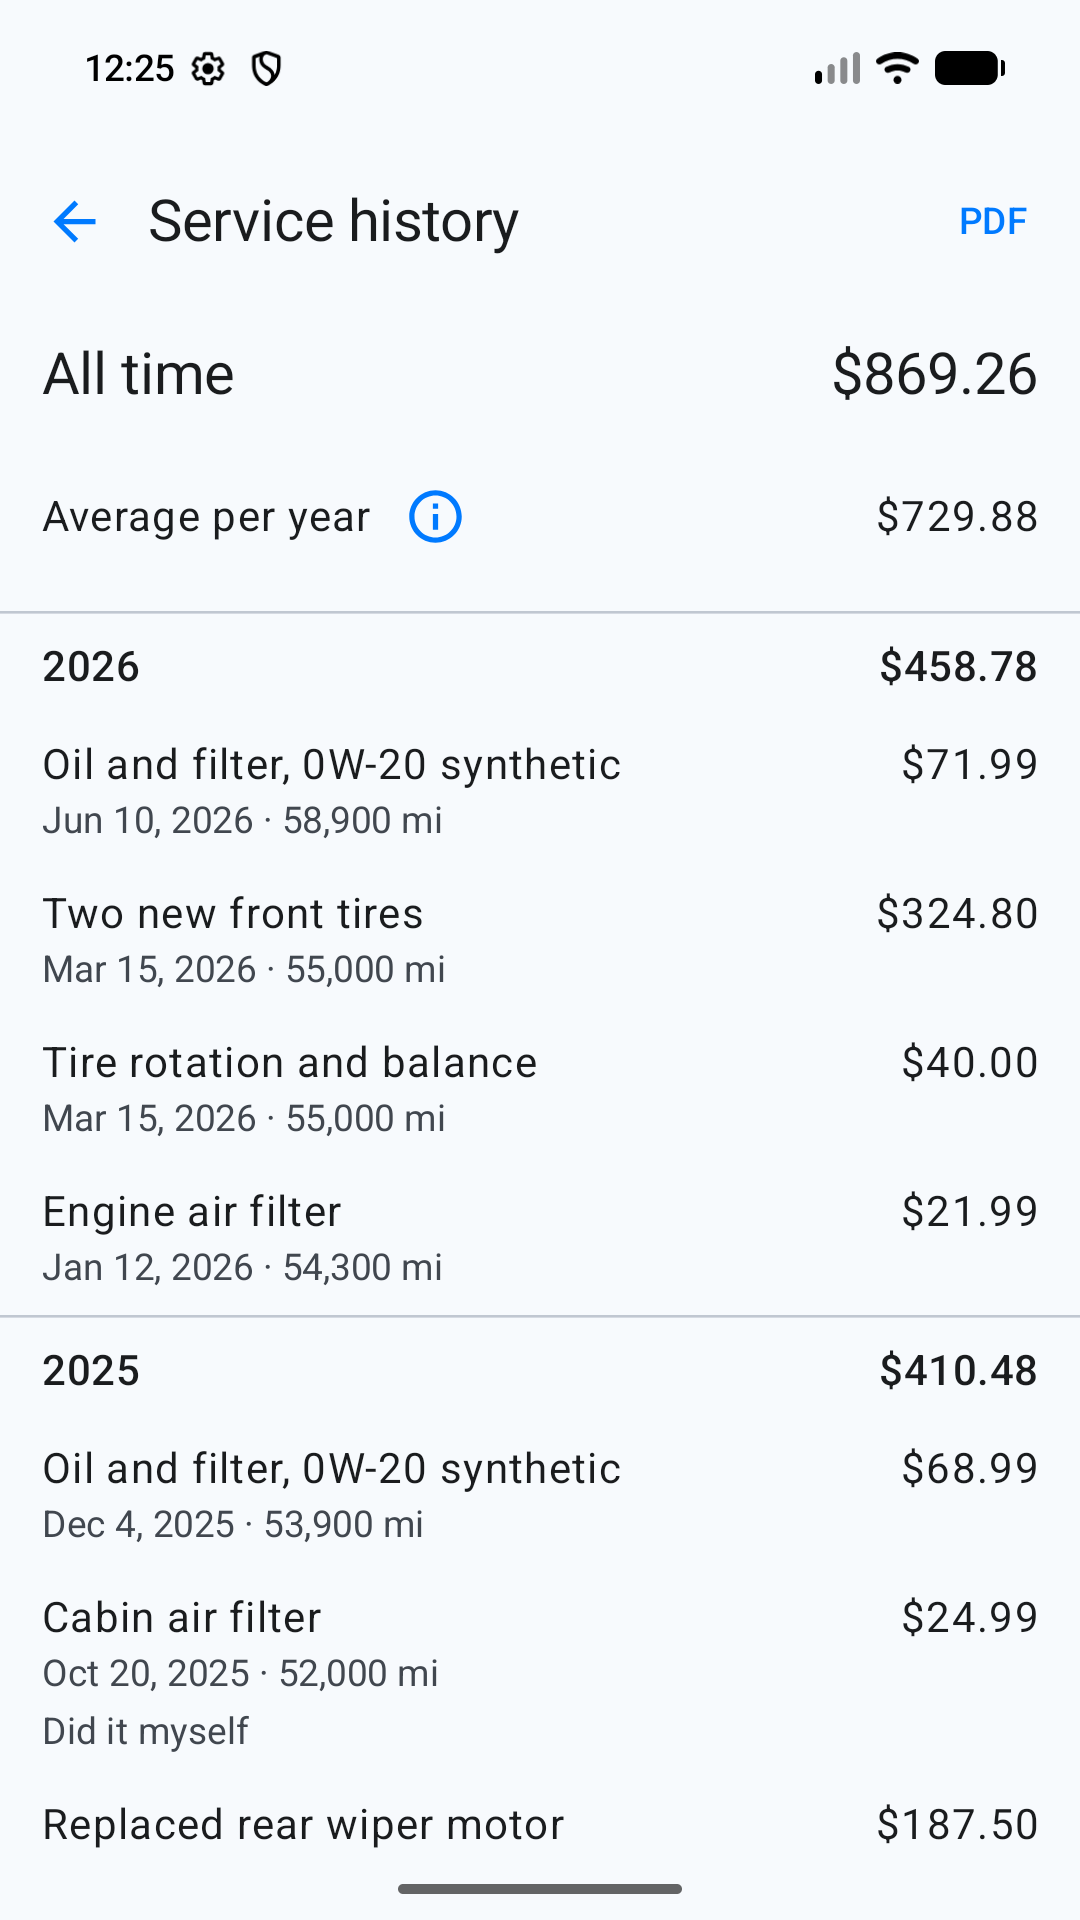
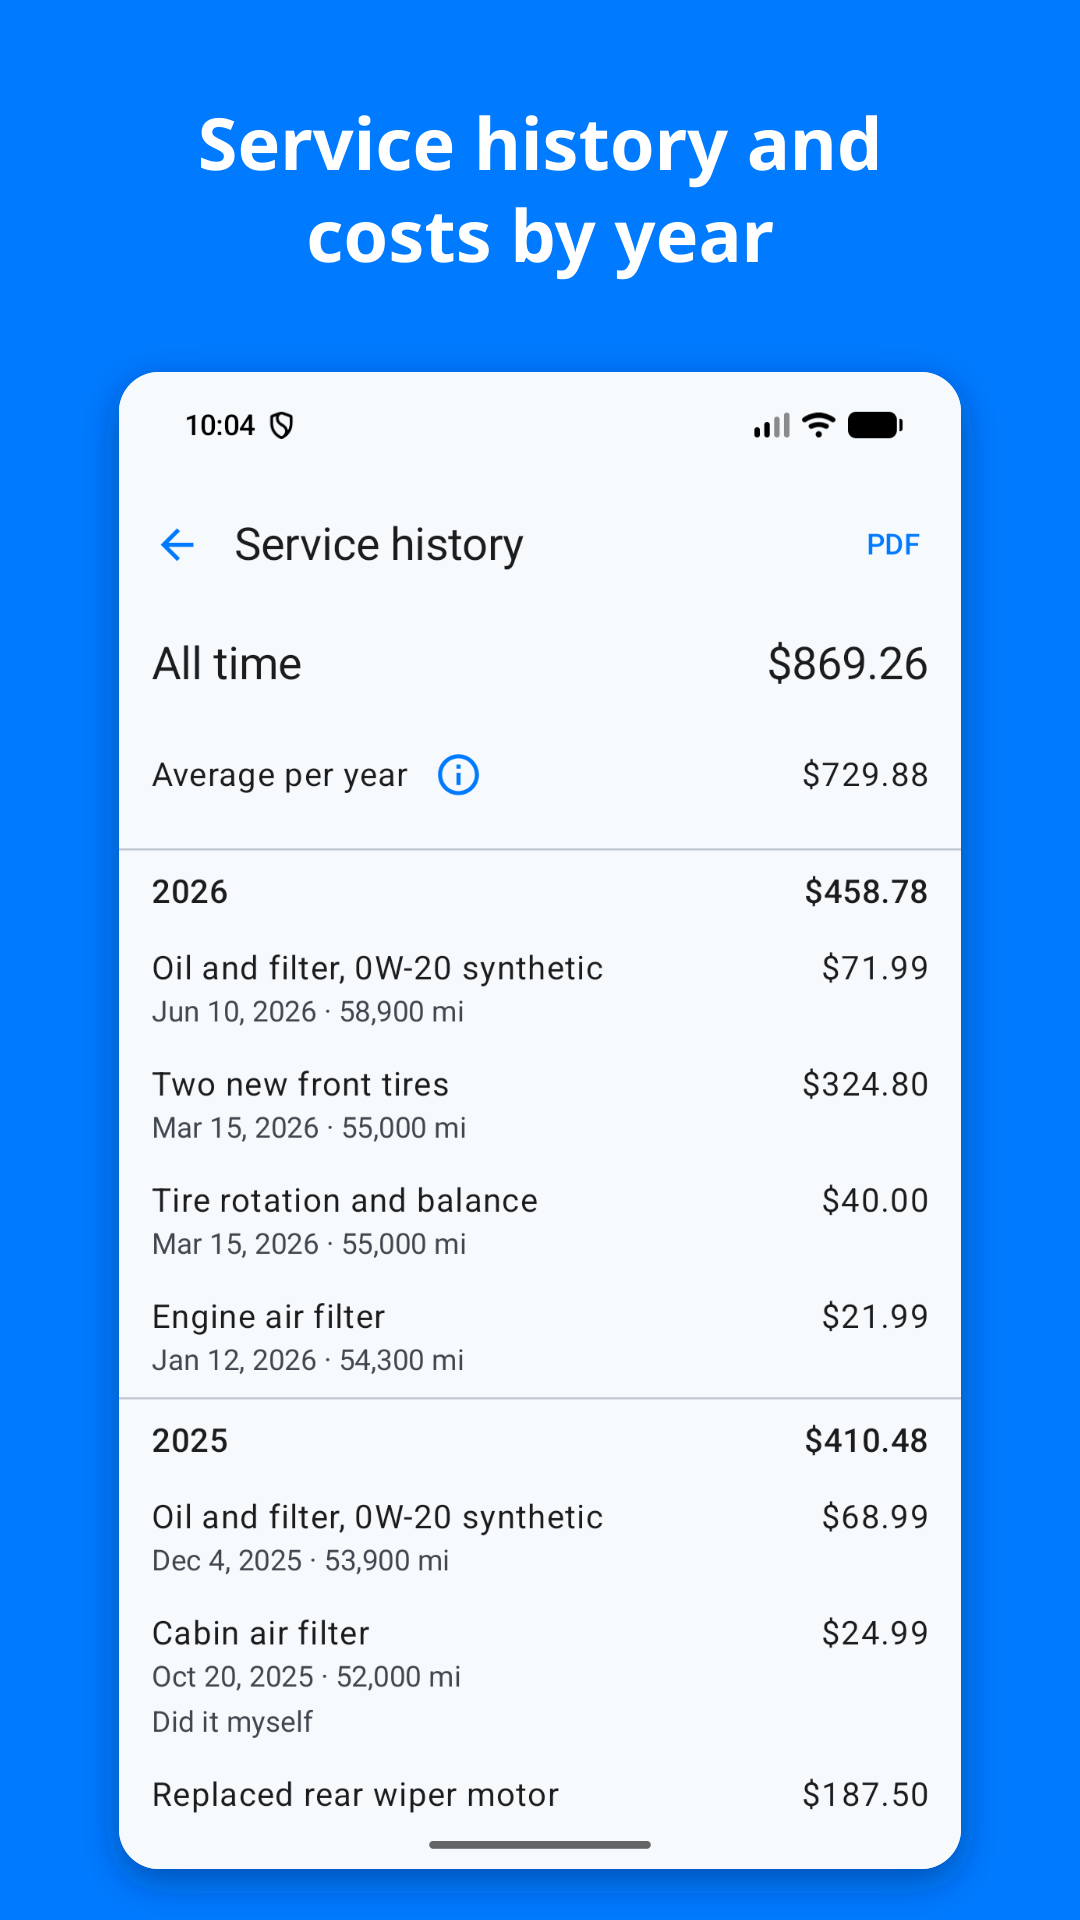
fix: captioned screenshots
Play testers said the store screenshots were plain captures that did not
explain the app, and they still showed the old Backup and Privacy
buttons. All five are recaptured from the current build with the
fictional sample data and placed under a bold caption on the brand blue.

- Fifth shot now shows the dark theme with the menu's theme switch, and
  is renamed screenshot-5-theme-dark.png
- screenshot-template.svg and make-screenshots.sh rebuild all five from
  raw/ with rsvg-convert and magick; reruns are byte-identical
- 1080 x 1920, no alpha, as Play requires

Claude-Session: https://claude.ai/code/session_015ZnUscpTsJTqhhAa9YtZpo

diff --git a/blueprint/history/fixes/captioned-screenshots.md b/blueprint/history/fixes/captioned-screenshots.md
@@ -1,0 +1,79 @@
+# Captioned screenshots
+
+**Type:** Fix
+**Status:** verified
+**Branch:** fix/captioned-screenshots
+
+Change 6 of 6 from `blueprint/context/tester-feedback-plan.md`.
+
+## The problem
+
+Play testers said the store screenshots are plain phone captures that do not
+explain what the app does. Captioned feature screenshots convert better because
+a browser of the listing can read the benefit without opening the app. The
+current captures are also out of date: the vehicle list now has the three-dot
+menu instead of Backup data and Privacy buttons.
+
+## The fix
+
+Edit `play-store/graphics/` and `play-store/listing.md` only. No app code.
+
+- **Recapture** fresh raw screens from the current debug build with the
+  fictional `play-store/sample-data.json`, at a temporary `wm size 1080x1920`
+  (reset afterwards), into `play-store/graphics/raw/`. Never show the owner's
+  real data:
+  1. Back up the debug app's store with `run-as` to the scratchpad, as a safety
+     copy only.
+  2. Force-stop the app, write the sample data over its store, and capture.
+  3. Leave the sample data in place as the new debug data, at the owner's
+     request (2026-10-18). Leave the theme setting on System, as it was.
+- **Five captioned screenshots**, 1080 x 1920. The first four keep today's file
+  names; the fifth is renamed to `screenshot-5-theme-dark.png` because it now
+  shows the theme menu (owner's request, 2026-10-18). The listing table uses
+  `screenshot-*.png`, so it stays valid. Each is the brand blue (`#007AFF`, as in the
+  feature graphic) with a short white caption at the top and the raw capture
+  scaled to about 80% below it, with rounded corners and a soft shadow:
+
+  | File | Screen | Caption |
+  | --- | --- | --- |
+  | `screenshot-1-vehicles.png` | Vehicle list | Every car, truck, and motorcycle in one place |
+  | `screenshot-2-due-status.png` | Vehicle detail with OK, Due, Overdue | See what is due or overdue at a glance |
+  | `screenshot-3-history.png` | Service history with cost totals | Service history and costs by year |
+  | `screenshot-4-log-service.png` | Log service form | Log every service and repair |
+  | `screenshot-5-theme-dark.png` | Vehicle list in dark theme with the three-dot menu open on the theme switch | Light or dark, your choice |
+
+  Captions are 2 lines at most, bold, large enough to read at the Play
+  thumbnail size, and make no claim the app does not back up.
+- **Reproducible**: one SVG template plus `play-store/graphics/make-screenshots.sh`,
+  which renders each final PNG from its raw capture and caption with
+  `rsvg-convert` and flattens it with `magick` (no alpha), the same tools the
+  feature graphic uses. Re-running the script after a future recapture rebuilds
+  all five.
+- **listing.md**: the Graphics section notes that screenshots are captioned,
+  names the raw folder and the script, and the "fictional data" line stays.
+
+Must not break: the emulator's display size and theme (reset), the icon and
+feature graphic (untouched).
+
+## Build steps
+
+- [x] 1. **Recapture raw screens.** Back up the store, load the sample data,
+   and capture the five screens to `play-store/graphics/raw/`.
+   Done when: five 1080 x 1920 raw PNGs exist showing only sample data and the
+   current UI, the debug app's store matches `sample-data.json` byte for byte,
+   and `wm size` reports the physical size again.
+- [x] 2. **Caption and render.** The SVG template, the script, the five final
+   PNGs, and the listing.md note.
+   Done when: `magick identify` shows each final screenshot as 1080 x 1920 with
+   no alpha channel, each caption is legible when the image is shrunk to about
+   a quarter size, and the script rebuilds identical output on a second run.
+
+## Verify
+
+- `magick identify play-store/graphics/screenshot-*.png` prints 1080x1920 and
+  an opaque (no alpha) type for all five.
+- View each final image: caption fits in two lines, nothing clipped, screen
+  content matches the caption.
+- No real vehicles or costs appear in any image.
+- You upload the five PNGs in the Play Console yourself, replacing the old
+  ones; nothing is published from here.

diff --git a/blueprint/context/tester-feedback-plan.md b/blueprint/context/tester-feedback-plan.md
@@ -14,7 +14,7 @@ Every item is an enhancement. Each code change runs as its own `/fix` (or
 | 3 | Rate app menu item, opening the Play listing | 4) In-app rating | Code | Done (`fix/rate-app-menu-item`) |
 | 4 | Help menu item opening a Help screen: short how-to for items, reminders, mileage, backup | Additional: help | Code | Done (`fix/help-menu-item`) |
 | 5 | Rewrite the store listing for search keywords | 1) ASO | Store text | Done (`fix/store-listing-keywords`) |
-| 6 | Annotated feature screenshots | 2) Screenshots | Store assets | `/fix` (after 1 to 4, so captures show the new menu) |
+| 6 | Annotated feature screenshots | 2) Screenshots | Store assets | Done (`fix/captioned-screenshots`) |
 
 Menu order on the vehicle list (top right): Theme, Backup data, Privacy, Share
 app, Rate app, Help. Change 1 builds the menu, so it comes first; 2 to 4 each

diff --git a/play-store/listing.md b/play-store/listing.md
@@ -90,6 +90,12 @@ All files are in `play-store/graphics/`:
 | --- | --- | --- |
 | App icon | `icon-512.png` | 512 x 512 PNG |
 | Feature graphic | `feature-graphic.png` | 1024 x 500 PNG or JPEG, no alpha |
-| Phone screenshots | `screenshot-*.png` | 2 to 8 images, 1080 x 1920 here |
+| Phone screenshots | `screenshot-*.png` | 2 to 8 images, 1080 x 1920 here, no alpha |
 
 The screenshots show only the fictional data in `play-store/sample-data.json`.
+
+Each screenshot is a raw capture from `raw/` placed under a caption on the
+brand blue, using `screenshot-template.svg`. The captions live in
+`make-screenshots.sh`. To refresh them after a UI change, recapture the raw
+screens at `adb shell wm size 1080x1920` (then `wm size reset`), keep the same
+file names in `raw/`, and run `./play-store/graphics/make-screenshots.sh`.
